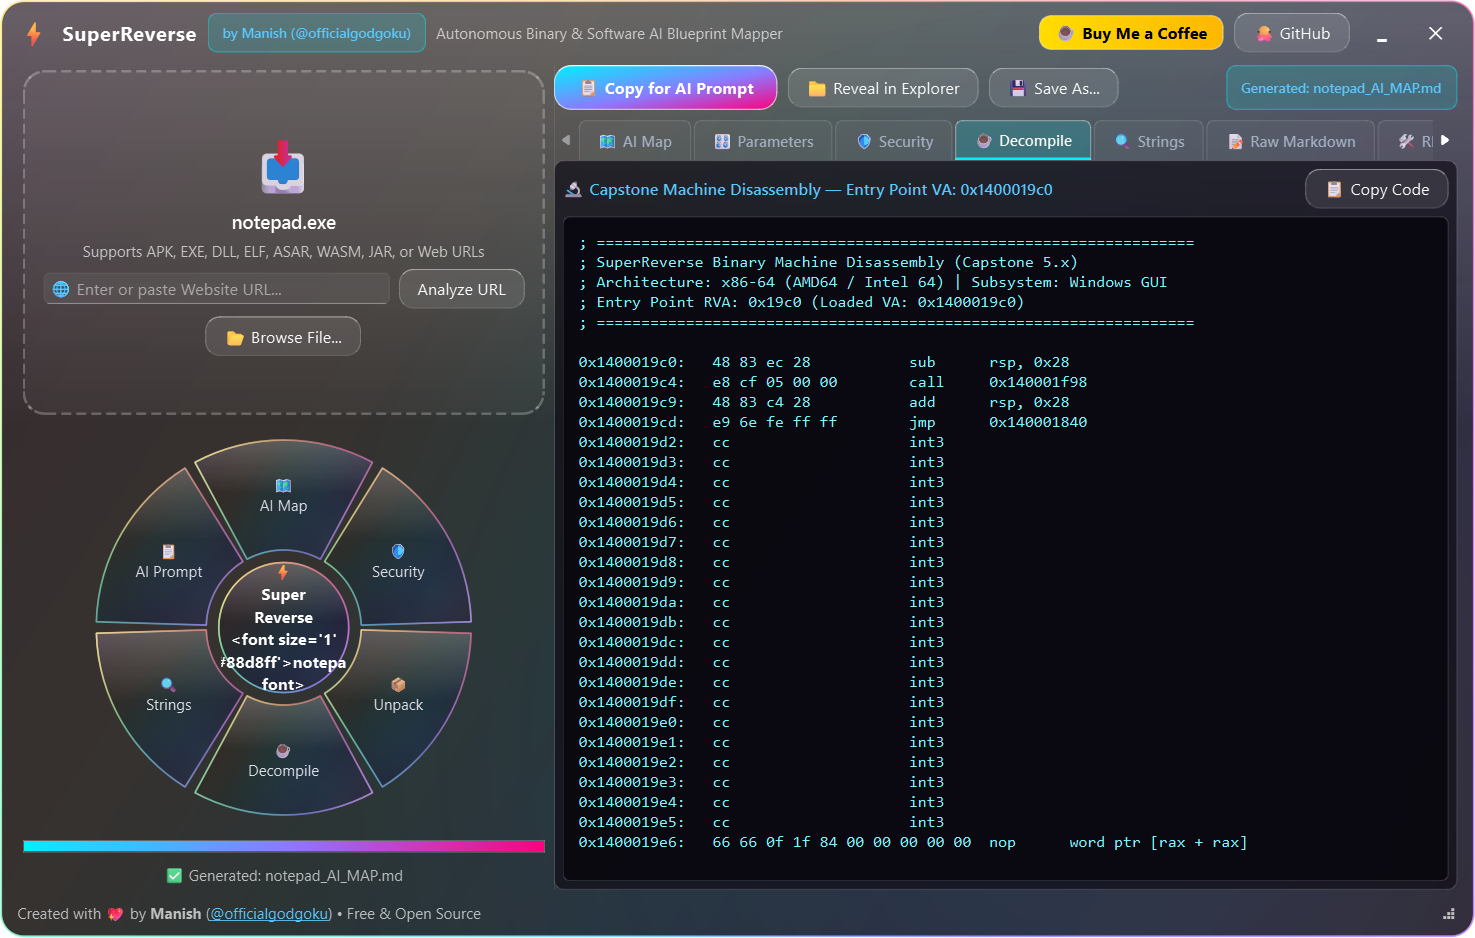
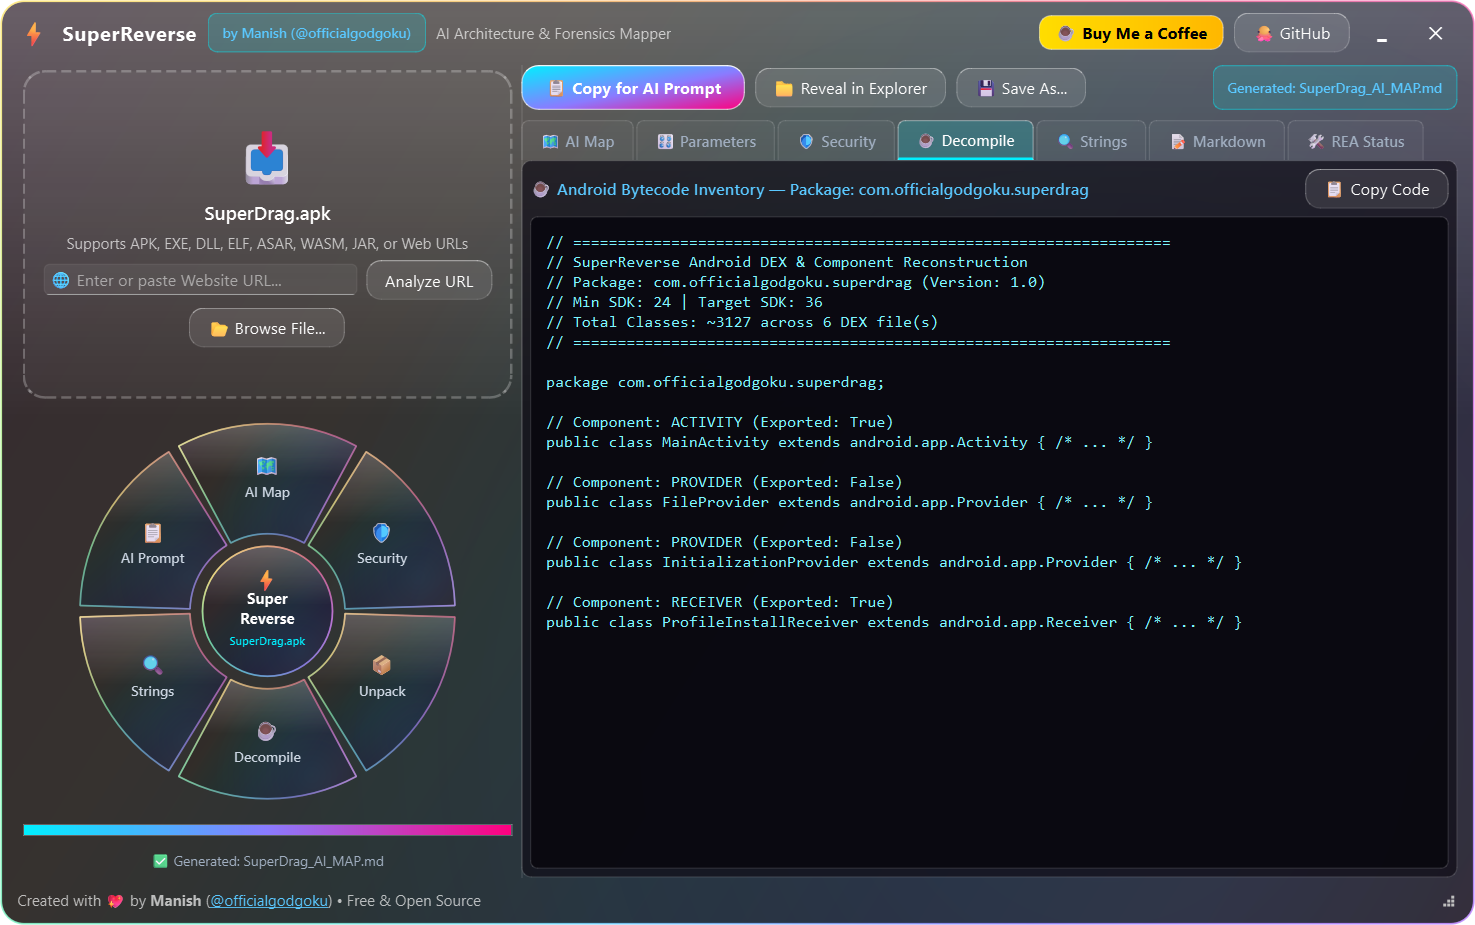
fix: Eliminate raw HTML tags in radial hub, fix text alignments & overflow, and showcase SuperDrag in demo GIF

diff --git a/tools/make_superdrag_demo_gif.py b/tools/make_superdrag_demo_gif.py
@@ -1,0 +1,126 @@
+"""Render high-resolution preview images and animated demo GIF using SuperDrag.apk."""
+import sys
+import time
+from pathlib import Path
+from PIL import Image
+from PySide6.QtCore import Qt
+from PySide6.QtWidgets import QApplication
+
+root = Path(__file__).resolve().parent.parent
+sys.path.insert(0, str(root))
+
+from superreverse.core.cli import analyze_target_bundle
+from superreverse.ui.window import MainWindow
+
+app = QApplication.instance() or QApplication(sys.argv)
+win = MainWindow()
+win.resize(1180, 740)
+win.show()
+app.processEvents()
+
+time.sleep(0.1)
+app.processEvents()
+
+apk_path = Path(r"C:\Users\Admin\.gemini\antigravity\scratch\superdrag-mobile\SuperDrag.apk")
+if not apk_path.exists():
+    raise FileNotFoundError(f"SuperDrag.apk not found at {apk_path}")
+
+frames = []
+
+# Frame 1: Idle state
+app.processEvents()
+f_idle = Image.fromqpixmap(win.grab()).resize((880, 550), Image.Resampling.LANCZOS)
+for _ in range(4):
+    frames.append(f_idle)
+
+# Frame 2: Dropping SuperDrag.apk (hovering petal)
+win.radial_dial.hovered_index = 0  # AI Map petal glowing
+win.drop_label.setText("SuperDrag.apk")
+win.radial_dial.set_target("SuperDrag.apk")
+app.processEvents()
+f_drop = Image.fromqpixmap(win.grab()).resize((880, 550), Image.Resampling.LANCZOS)
+for _ in range(3):
+    frames.append(f_drop)
+
+# Frame 3: Progress Scanning Step 1
+win.radial_dial.hovered_index = -1
+win.progress_bar.show()
+win.progress_bar.setValue(35)
+win.status_lbl.setText("Extracting DEX classes, permissions, SQLite entities & endpoints...")
+app.processEvents()
+f_scan1 = Image.fromqpixmap(win.grab()).resize((880, 550), Image.Resampling.LANCZOS)
+for _ in range(3):
+    frames.append(f_scan1)
+
+# Frame 4: Progress Scanning Step 2
+win.progress_bar.setValue(75)
+win.status_lbl.setText("Synthesizing AI Architecture Blueprint & Parameters Matrix...")
+app.processEvents()
+f_scan2 = Image.fromqpixmap(win.grab()).resize((880, 550), Image.Resampling.LANCZOS)
+for _ in range(3):
+    frames.append(f_scan2)
+
+# Run full bundle analysis on SuperDrag.apk
+bundle = analyze_target_bundle(apk_path)
+win.last_bundle = bundle
+win.active_target = str(apk_path)
+win.progress_bar.setValue(100)
+win.status_lbl.setText(f"✅ Generated: {bundle.out_file.name}")
+win.viewer.load_bundle(bundle)
+app.processEvents()
+time.sleep(0.2)
+app.processEvents()
+
+# Frame 5: Tab 0 - AI Map (Master Blueprint)
+win.viewer.switch_to_tab("ai_map")
+app.processEvents()
+time.sleep(0.1)
+pm_map = win.grab()
+pm_map.save(str(root / "docs" / "preview.png"), "PNG")
+f_map = Image.fromqpixmap(pm_map).resize((880, 550), Image.Resampling.LANCZOS)
+for _ in range(6):
+    frames.append(f_map)
+
+# Frame 6: Tab 1 - Tweakable Parameters Matrix
+win.viewer.switch_to_tab("parameters")
+app.processEvents()
+time.sleep(0.1)
+pm_params = win.grab()
+pm_params.save(str(root / "docs" / "preview_parameters.png"), "PNG")
+f_params = Image.fromqpixmap(pm_params).resize((880, 550), Image.Resampling.LANCZOS)
+for _ in range(5):
+    frames.append(f_params)
+
+# Frame 7: Tab 3 - Decompiled Code & Sources
+win.viewer.switch_to_tab("decompile")
+app.processEvents()
+time.sleep(0.1)
+pm_dec = win.grab()
+pm_dec.save(str(root / "docs" / "preview_disasm.png"), "PNG")
+f_dec = Image.fromqpixmap(pm_dec).resize((880, 550), Image.Resampling.LANCZOS)
+for _ in range(5):
+    frames.append(f_dec)
+
+# Frame 8: Tab 2 - Security Posture & Frida Scripts
+win.viewer.switch_to_tab("security")
+app.processEvents()
+time.sleep(0.1)
+pm_sec = win.grab()
+f_sec = Image.fromqpixmap(pm_sec).resize((880, 550), Image.Resampling.LANCZOS)
+for _ in range(5):
+    frames.append(f_sec)
+
+# Save animated GIF
+gif_path = root / "docs" / "demo.gif"
+frames[0].save(
+    str(gif_path),
+    save_all=True,
+    append_images=frames[1:],
+    duration=450,
+    loop=0,
+    optimize=True
+)
+print(f"[+] Saved docs/demo.gif using SuperDrag example ({len(frames)} frames)")
+print(f"[+] Updated docs/preview.png with clean SuperDrag AI Map")
+
+win.close()

diff --git a/superreverse/ui/viewer.py b/superreverse/ui/viewer.py
@@ -251,6 +251,10 @@ class MapViewerWidget(QWidget):
         self.params_table.setHorizontalHeaderLabels([
             "Parameter Identifier", "Category", "Current Value", "Discovered In", "Tweak Impact & Instructions"
         ])
+        self.params_table.setWordWrap(True)
+        self.params_table.setShowGrid(True)
+        self.params_table.verticalHeader().setSectionResizeMode(QHeaderView.ResizeToContents)
+        self.params_table.verticalHeader().setDefaultSectionSize(34)
         self.params_table.horizontalHeader().setSectionResizeMode(QHeaderView.Interactive)
         self.params_table.horizontalHeader().setSectionResizeMode(0, QHeaderView.ResizeToContents)
         self.params_table.horizontalHeader().setSectionResizeMode(1, QHeaderView.ResizeToContents)
@@ -309,11 +313,11 @@ class MapViewerWidget(QWidget):
         # Tab 5: Raw Markdown Editor
         self.editor = QPlainTextEdit()
         self.editor.setFont(QFont("Consolas", 10))
-        self.tabs.addTab(self.editor, "📝 Raw Markdown")
+        self.tabs.addTab(self.editor, "📝 Markdown")
 
         # Tab 6: REA Environment Status
         self.tools_panel = QTextBrowser()
-        self.tabs.addTab(self.tools_panel, "🛠 REA Environment")
+        self.tabs.addTab(self.tools_panel, "🛠 REA Status")
 
         layout.addWidget(self.tabs, 1)
         self._refresh_tools_panel()
@@ -327,7 +331,10 @@ class MapViewerWidget(QWidget):
         self.editor.setPlainText(bundle.markdown_content)
         html_body = markdown.markdown(bundle.markdown_content, extensions=["tables", "fenced_code"])
         self.browser_map.setHtml(f"<!DOCTYPE html><html><head>{HTML_STYLE}</head><body>{html_body}</body></html>")
-        self.status_pill.setText(f"Generated: {bundle.out_file.name}")
+        fm = self.status_pill.fontMetrics()
+        elided = fm.elidedText(bundle.out_file.name, Qt.ElideMiddle, 220)
+        self.status_pill.setText(f"Generated: {elided}")
+        self.status_pill.setToolTip(str(bundle.out_file))
 
         # 1. Populate Parameters Table
         self._populate_parameters_table(bundle)
@@ -383,17 +390,22 @@ class MapViewerWidget(QWidget):
             item_name = QTableWidgetItem(name)
             item_name.setForeground(QColor("#00f0ff"))
             item_name.setFont(QFont("Consolas", 9, QFont.Bold))
+            item_name.setTextAlignment(Qt.AlignLeft | Qt.AlignVCenter)
 
             item_cat = QTableWidgetItem(cat)
             item_cat.setForeground(QColor("#ff9cfb"))
+            item_cat.setTextAlignment(Qt.AlignLeft | Qt.AlignVCenter)
 
             item_val = QTableWidgetItem(str(val))
             item_val.setFont(QFont("Consolas", 9))
+            item_val.setTextAlignment(Qt.AlignLeft | Qt.AlignVCenter)
 
             item_loc = QTableWidgetItem(loc)
             item_loc.setForeground(QColor("#a0aec0"))
+            item_loc.setTextAlignment(Qt.AlignLeft | Qt.AlignVCenter)
 
             item_impact = QTableWidgetItem(impact)
+            item_impact.setTextAlignment(Qt.AlignLeft | Qt.AlignVCenter)
 
             self.params_table.setItem(row, 0, item_name)
             self.params_table.setItem(row, 1, item_cat)

diff --git a/superreverse/ui/radial.py b/superreverse/ui/radial.py
@@ -252,20 +252,30 @@ class RadialDialWidget(QWidget):
             hub_tint = QColor(70, 35, 105, 255)
         glass.paint_liquid_glass(p, hub_path, tint=hub_tint, rim=True, highlight=1.4 if self.hub_hovered else 1.0)
 
-        # Hub Text & Icon
+        # Precise multi-layer typography inside Central Hub (No HTML tags, no overflow)
+        # 1a. Lightning Glyph (Top)
+        p.setFont(QFont("-apple-system, Segoe UI", 13, QFont.Bold))
+        p.setPen(QColor(255, 190, 40) if self.hub_hovered else QColor(255, 220, 80))
+        p.drawText(QRectF(c.x() - 20, c.y() - 36, 40, 20), Qt.AlignCenter, "⚡")
+
+        # 1b. Brand Title (Center)
+        p.setFont(QFont("-apple-system, Segoe UI", 9, QFont.Bold))
         p.setPen(QColor(255, 255, 255))
-        p.setFont(QFont("-apple-system, Segoe UI", 10, QFont.Bold))
-        hub_rect = QRectF(c.x() - r_hub + 2, c.y() - r_hub + 2, (r_hub - 2) * 2, (r_hub - 2) * 2)
+        p.drawText(QRectF(c.x() - 46, c.y() - 17, 92, 28), Qt.AlignCenter, "Super\nReverse")
 
-        short_name = self.active_target_name
-        if len(short_name) > 16:
-            short_name = short_name[:14] + "…"
+        # 1c. Target File / Status Badge (Bottom)
+        p.setFont(QFont("-apple-system, Segoe UI", 7.5, QFont.DemiBold))
+        fm = p.fontMetrics()
+        raw_target = self.active_target_name
+        if raw_target in ("", "Drop Software Here"):
+            p.setPen(QColor(148, 163, 184))
+            display_text = "Drop Here"
+        else:
+            p.setPen(QColor(0, 240, 255))
+            # Ellipsize the middle so filenames like SuperDrag.apk never overflow
+            display_text = fm.elidedText(raw_target, Qt.ElideMiddle, int(2 * (r_hub - 10)))
 
-        p.drawText(
-            hub_rect,
-            Qt.AlignCenter | Qt.TextWordWrap,
-            f"⚡\nSuper\nReverse\n<font size='1' color='#88d8ff'>{short_name}</font>",
-        )
+        p.drawText(QRectF(c.x() - (r_hub - 8), c.y() + 15, 2 * (r_hub - 8), 16), Qt.AlignCenter | Qt.TextSingleLine, display_text)
 
         # 2. Petals
         for i, act in enumerate(self.actions):
@@ -302,8 +312,13 @@ class RadialDialWidget(QWidget):
             ty = c.y() - mid_r * math.sin(mid_ang)
 
             p.save()
-            p.setPen(QColor(255, 255, 255) if is_hover else QColor(220, 220, 230))
-            p.setFont(QFont("-apple-system, Segoe UI", 9, QFont.Bold if is_hover else QFont.Normal))
-            rect = QRectF(tx - 38, ty - 20, 76, 40)
-            p.drawText(rect, Qt.AlignCenter, f"{act.glyph}\n{act.label}")
+            # Draw Glyph
+            p.setFont(QFont("-apple-system, Segoe UI", 12))
+            p.setPen(QColor(255, 255, 255))
+            p.drawText(QRectF(tx - 40, ty - 22, 80, 22), Qt.AlignCenter, act.glyph)
+
+            # Draw Label
+            p.setFont(QFont("-apple-system, Segoe UI", 8.5, QFont.Bold if (is_hover or is_press) else QFont.DemiBold))
+            p.setPen(QColor(255, 255, 255) if (is_hover or is_press) else QColor(203, 213, 225))
+            p.drawText(QRectF(tx - 40, ty + 1, 80, 18), Qt.AlignCenter, act.label)
             p.restore()

diff --git a/superreverse/ui/window.py b/superreverse/ui/window.py
@@ -124,7 +124,7 @@ class MainWindow(QWidget):
         author_lbl.setObjectName("badge")
         title_bar.addWidget(author_lbl)
 
-        sub_lbl = QLabel("Autonomous Binary & Software AI Blueprint Mapper")
+        sub_lbl = QLabel("AI Architecture & Forensics Mapper")
         sub_lbl.setObjectName("subtitle")
         title_bar.addWidget(sub_lbl)
 
@@ -192,11 +192,13 @@ class MainWindow(QWidget):
         self.drop_label = QLabel("Drag & Drop Any Software Here")
         self.drop_label.setStyleSheet("font-size: 11pt; font-weight: 600; color: #ffffff;")
         self.drop_label.setAlignment(Qt.AlignCenter)
+        self.drop_label.setWordWrap(True)
         drop_layout.addWidget(self.drop_label)
 
         self.drop_hint = QLabel("Supports APK, EXE, DLL, ELF, ASAR, WASM, JAR, or Web URLs")
         self.drop_hint.setObjectName("subtitle")
         self.drop_hint.setAlignment(Qt.AlignCenter)
+        self.drop_hint.setWordWrap(True)
         drop_layout.addWidget(self.drop_hint)
 
         # URL Input Bar
@@ -236,6 +238,8 @@ class MainWindow(QWidget):
         self.status_lbl = QLabel("Drop software on any dial petal or click to analyze")
         self.status_lbl.setObjectName("subtitle")
         self.status_lbl.setAlignment(Qt.AlignCenter)
+        self.status_lbl.setWordWrap(True)
+        self.status_lbl.setStyleSheet("font-size: 8.5pt; color: #a0aec0; padding: 2px 6px;")
         left_layout.addWidget(self.status_lbl)
 
         self.splitter.addWidget(left_panel)
